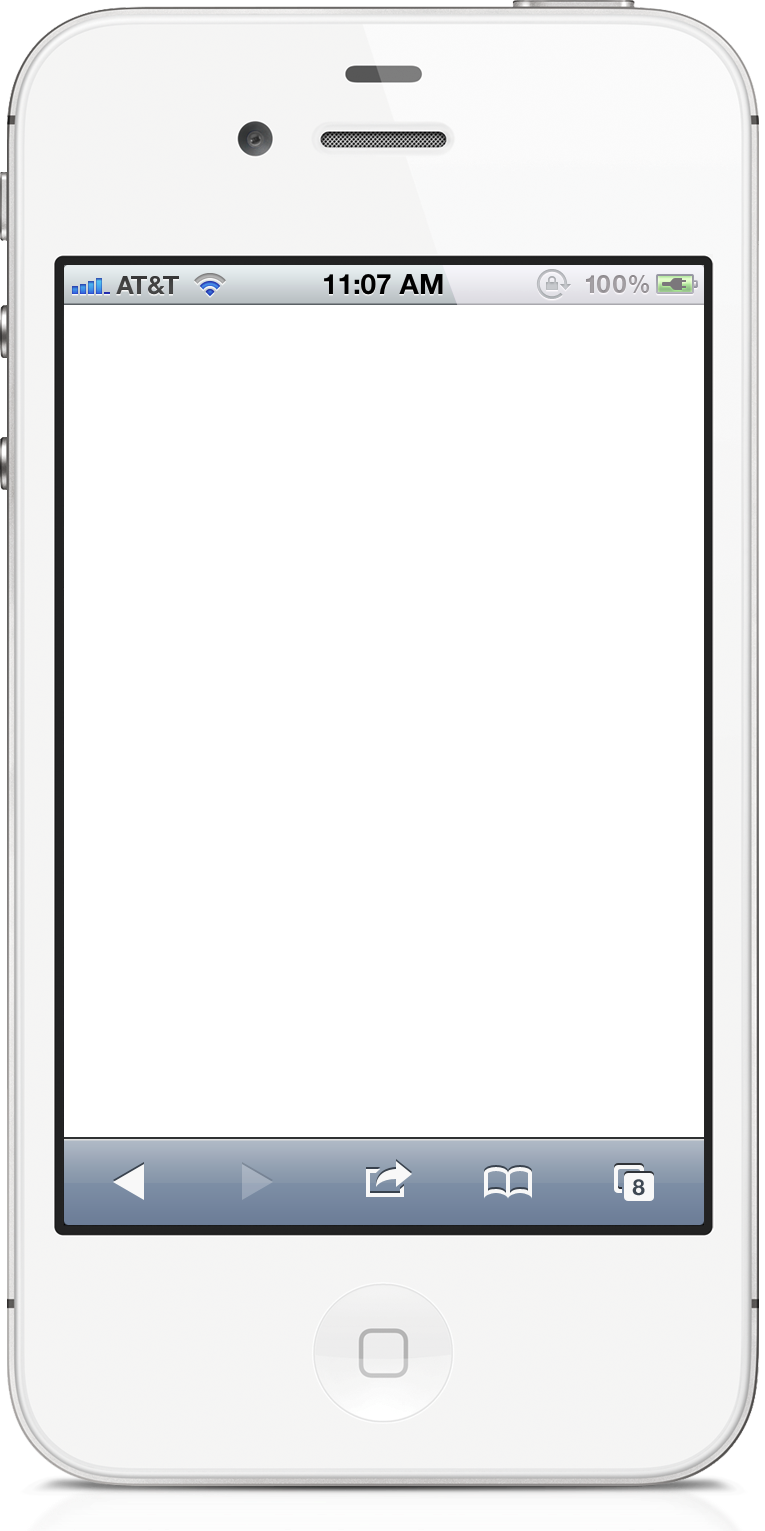
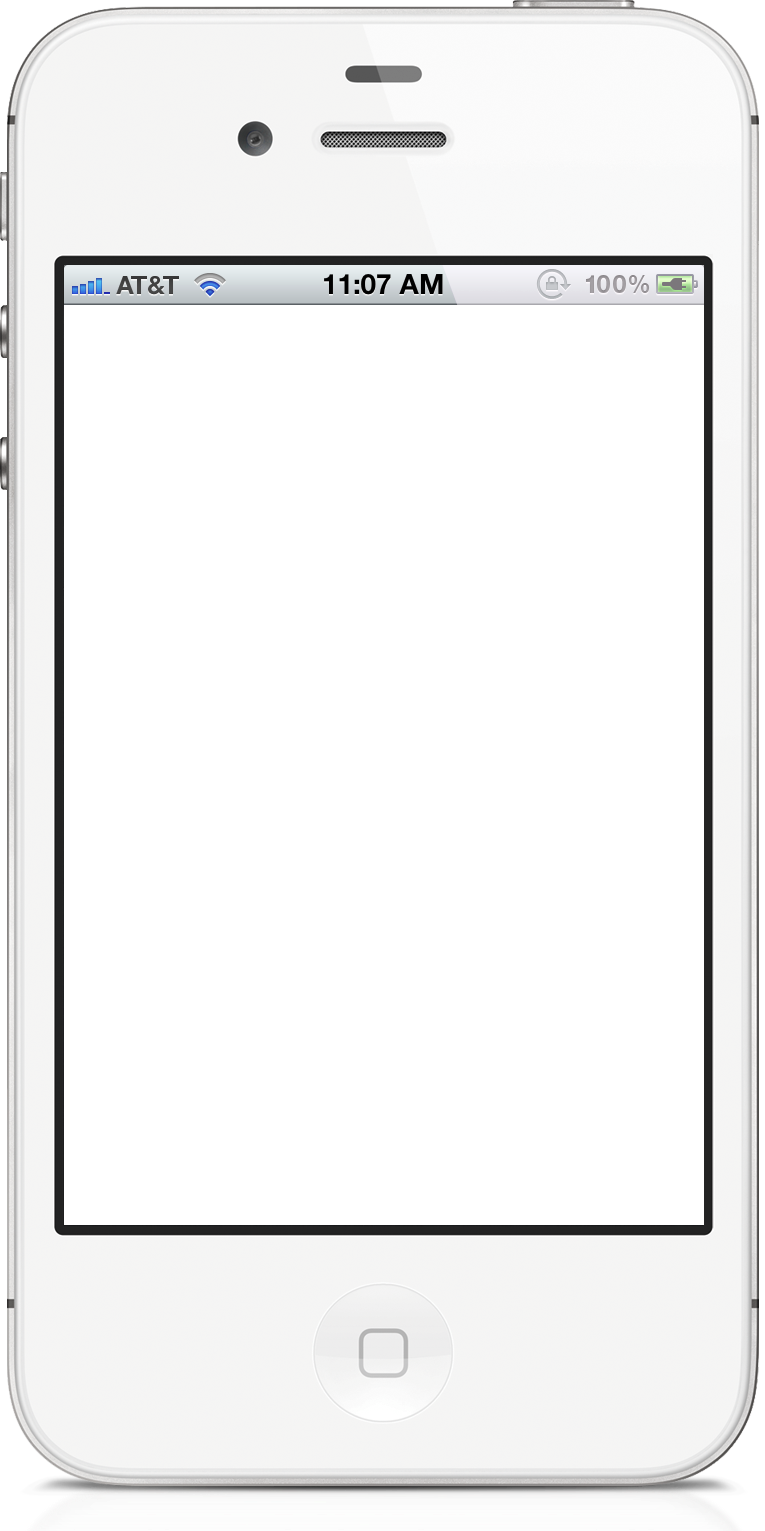
removed iphone safary bar

Changed region(s): [[0.0601, 0.7368, 0.932, 0.7982]]

diff --git a/iphone.html b/iphone.html
@@ -2,6 +2,10 @@
 <html>
     <head>
         <style>
+            body {
+                background-color: #B9B5B5;
+            }
+            
             #phone {
                 margin: auto;
                 width: 480px;
@@ -19,7 +23,7 @@
                 left: 40px;
 
                 width: 402px;
-                height: 521px;
+                height: 577px;
 
                 border: 0;
             }

diff --git a/css/main.css b/css/main.css
@@ -1,0 +1,20 @@
+a:hover {
+    text-decoration: none;
+}
+
+.skip {
+    color: #F2C7C7;
+    background-color: #E06666;
+}
+
+.skip:hover {
+    background-color: #FB8C8C;
+}
+
+.done {
+
+}
+
+.done:hover {
+    
+}
